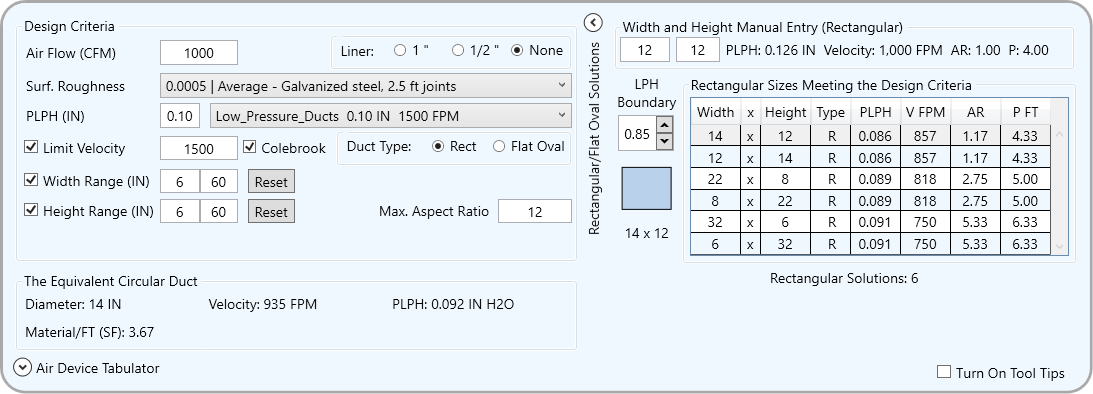
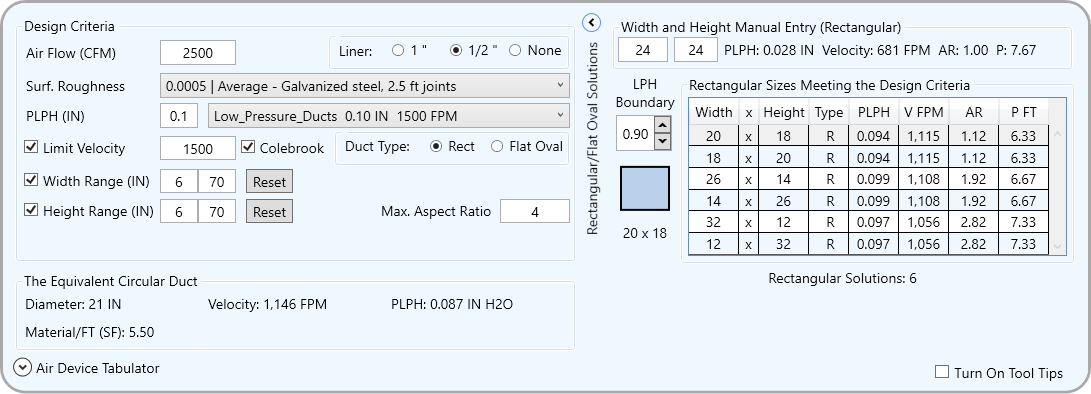
Filling Out Some  Documentation

diff --git a/README.md b/README.md
@@ -1,11 +1,34 @@
-# WpfaksDuctOMatic&nbsp;&nbsp;&nbsp;&nbsp;&nbsp;
+#  WpfaksDuctOMatic&nbsp;&nbsp;&nbsp;&nbsp;&nbsp;
+
+#  HVAC Air Duct Size Design Tool
+
+-  DuctOMatic is a Ductulator providing HVAC duct size solutions a real manual Ductulator cannot do.
+-  The DuctOMatic HVAC duct sizer application directly cranks out your duct size solutions instead of imitating the circular Ductulator slide rule that brought you short of the final answer you need.
 
 ![Duct-O-Matic](Images/Duct0Matic-01.PNG)
+##  How To Use
 
-# HVAC Air Duct Size Design Tool
-
-- Yet to be explained.
-
-![Duct-O-Matic](Images/Duct0Matic-02.PNG)
+-  Run the program.
+-  Enter the CFM.
+-  Select the duct liner choice. Duct sizes are the outside sheet metal sizes. The air stream area is reduced by the duct liner.
+-  Select the surface roughness. The manual Ductulator does not account for surface roughness.
+-  Select or enter the design PLPH factor (pressure loss inches per hundred feet duct). Selecting the duct pressure class will set the typical PLPH values.
+-  Enter and indicate any velocity limit the design needs.
+-  Select the duct shape type rectangular or flat oval.
+-  Read the circular solution at the bottom and the rectangular or flat oval solutions in the table at the right.
 
 ![Duct-O-Matic](Images/Duct0Matic-03.PNG)
+
+![Duct-O-Matic](Images/Duct0Matic-04.PNG)
+
+###  Air Device Tabulator
+-  The expander at the bottom reveals a simple Air Device Tabulator.
+-  The the device values and notes as needed. The CFM will be summed.
+-  The total value mirrors to the design CFM when the Use Air Device CFM Tally is checked.
+
+![Duct-O-Matic](Images/Duct0Matic-05.PNG)
+
+![Duct-O-Matic](Images/Duct0Matic-06.PNG)
+
+###  Installation
+--  Yet to write.
